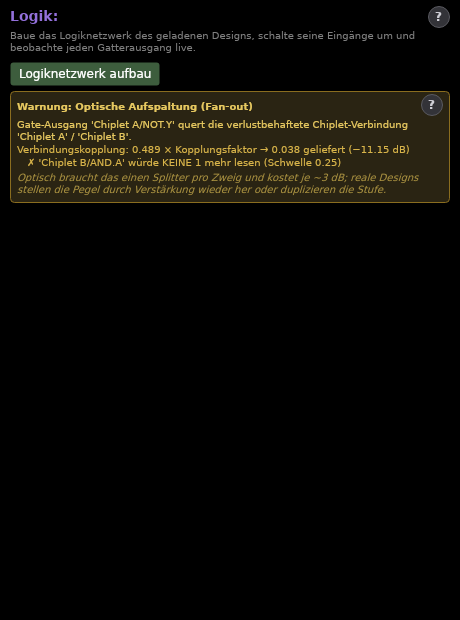
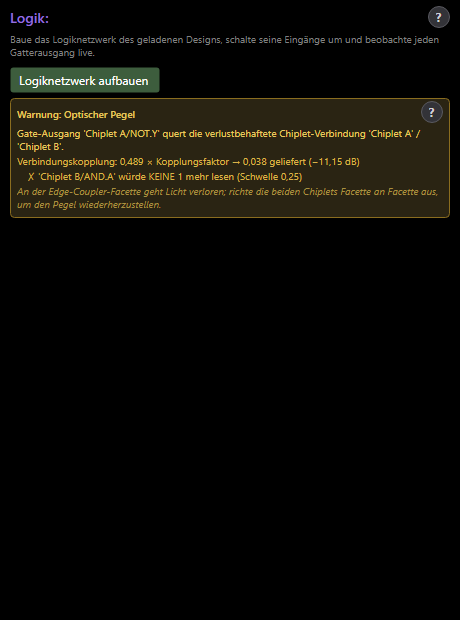
PO: link-loss warning gets a neutral 'optical level' title and its own remedy note; splitter note only for real fan-out

Changed region(s): [[0.0, 0.0, 0.9739, 0.3677], [0.9435, 0.0, 0.9739, 0.0306]]

diff --git a/CAP.Avalonia/ViewModels/Analysis/LogicAnalysis/LogicPanelViewModel.cs b/CAP.Avalonia/ViewModels/Analysis/LogicAnalysis/LogicPanelViewModel.cs
@@ -64,6 +64,10 @@ public partial class LogicPanelViewModel : ObservableObject
     [ObservableProperty]
     private bool _hasFanOutWarnings;
 
+    /// <summary>True when at least one warning is a genuine fan-out split (shows the splitter note).</summary>
+    [ObservableProperty]
+    private bool _hasSplitFanOutWarnings;
+
     /// <summary>
     /// Critical-path summary line ("critical path: X ps over N gates") — the slowest
     /// gate chain limits how fast the network can clock.
@@ -124,6 +128,7 @@ public partial class LogicPanelViewModel : ObservableObject
             FanOutWarnings.Add(new LogicFanOutWarningViewModel(warning));
         }
         HasFanOutWarnings = FanOutWarnings.Count > 0;
+        HasSplitFanOutWarnings = FanOutWarnings.Any(w => !w.IsLinkWarning);
         CriticalPathText = string.Format(
             Translate("LogicPanel.CriticalPath"),
             network.CriticalPathDelayPicoseconds,
@@ -144,6 +149,7 @@ public partial class LogicPanelViewModel : ObservableObject
         _builtNetworkProvider?.Clear();
         _canvas?.LogicGateStates.Clear();
         HasFanOutWarnings = false;
+        HasSplitFanOutWarnings = false;
         CriticalPathText = "";
         HasCellGroups = false;
         ClearTimeline();

diff --git a/CAP.Avalonia/ViewModels/Analysis/LogicAnalysis/LogicFanOutWarningViewModel.cs b/CAP.Avalonia/ViewModels/Analysis/LogicAnalysis/LogicFanOutWarningViewModel.cs
@@ -31,6 +31,7 @@ public partial class LogicFanOutWarningViewModel : ObservableObject
                 warning.Levels.DriverPowerOne,
                 warning.Levels.BranchPower,
                 warning.Levels.SplitLossDb);
+            LinkNote = Translate("LogicPanel.FanOutWarning.LinkNote");
         }
         else
         {
@@ -65,6 +66,12 @@ public partial class LogicFanOutWarningViewModel : ObservableObject
 
     /// <summary>The ideal-split arithmetic: 1×N split, driver power → per-branch power, loss in dB.</summary>
     public string SplitLine { get; }
+
+    /// <summary>Remedy note for a degraded chiplet link; empty for fan-out warnings.</summary>
+    public string LinkNote { get; } = "";
+
+    /// <summary>True when this entry flags a lossy chiplet link rather than a fan-out site.</summary>
+    public bool IsLinkWarning => Warning.LinkDisplayName != null;
 
     /// <summary>One verdict line per receiving input: would it still read a logic 1.</summary>
     public IReadOnlyList<string> VerdictLines { get; }
